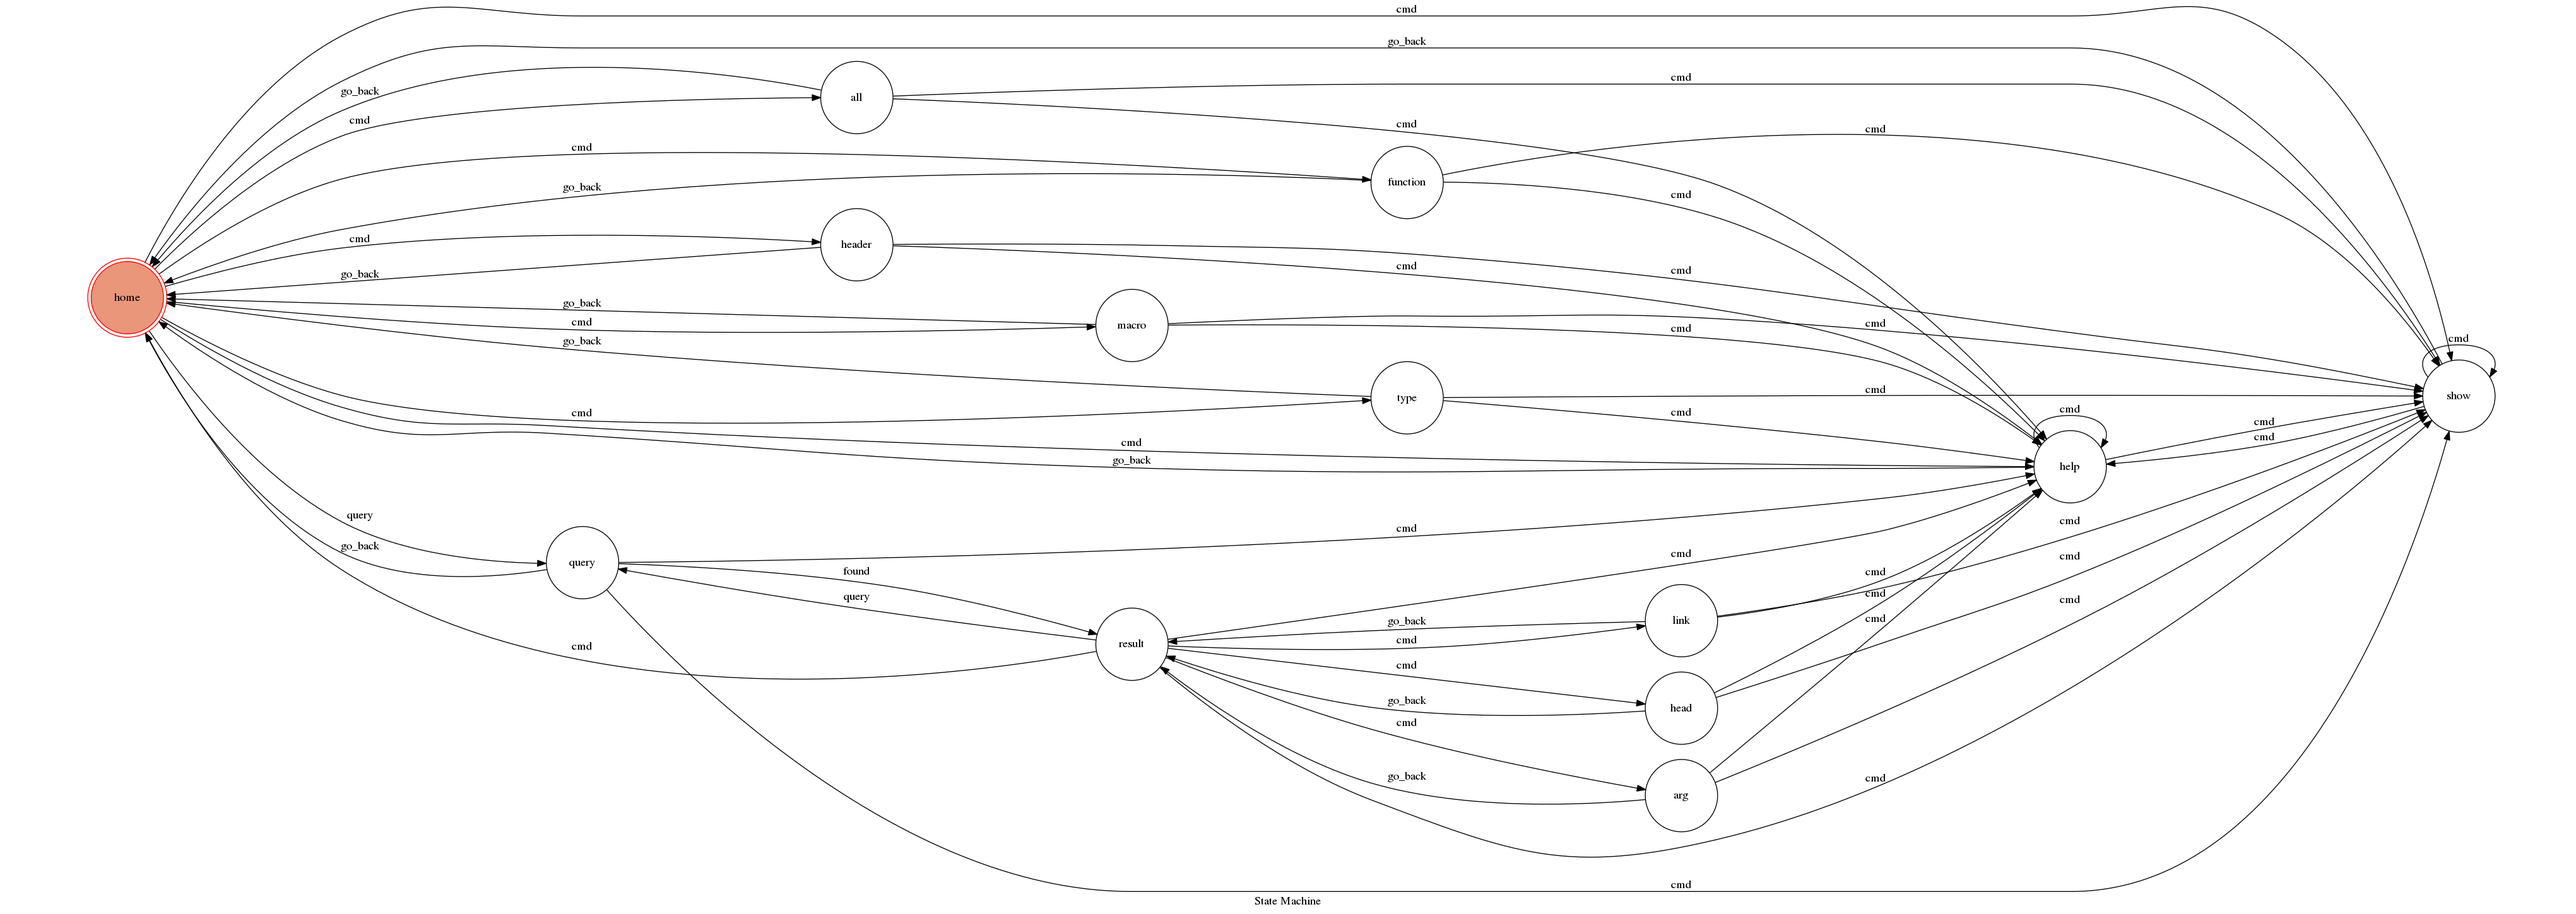
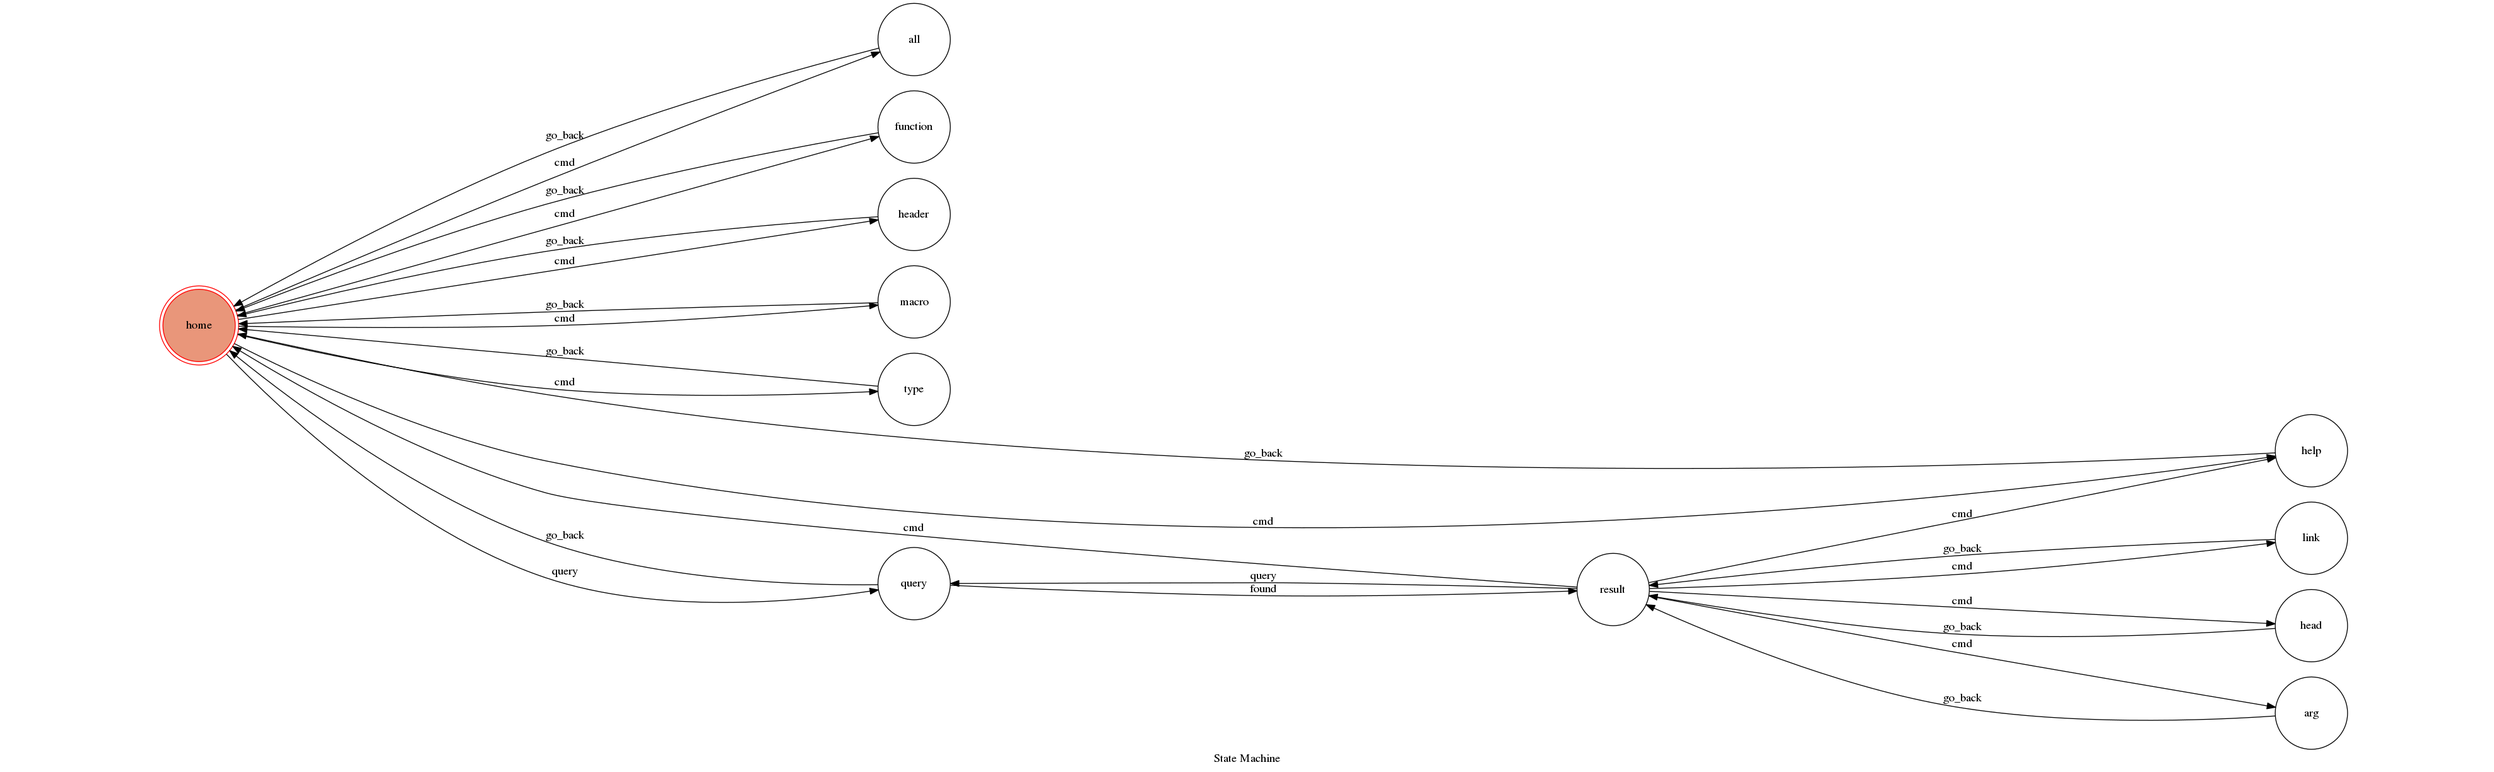
final update

diff --git a/fsm.py b/fsm.py
@@ -101,7 +101,7 @@ class TocMachine(object):
 		msg = update.message.text
 		logging.info('receive query: {}'.format(msg))
 
-		update.message.reply_text('a query? let me see...')
+		update.message.reply_text('A query? let me see...')
 
 		if self.mode == 'all':
 			result = collect.find_one({'name':msg})
@@ -110,40 +110,43 @@ class TocMachine(object):
 
 		self.lastResult = result
 
-		with io.StringIO() as replyBuffer:
-			if result is None:
-				if self.mode == 'all':
-					nameList = [item['name'] for item in collect.find({})]
-				else:
-					nameList = [item['name'] for item in collect.find({'itemType':self.mode})]
+		if result is None:
+			if self.mode == 'all':
+				nameList = [item['name'] for item in collect.find({})]
+			else:
+				nameList = [item['name'] for item in collect.find({'itemType':self.mode})]
 
-				possiblilties = [p for (p, score) in process.extract(msg, nameList) if score >= 70]
+			possiblilties = [p for (p, score) in process.extract(msg, nameList) if score >= 70]
+			with io.StringIO() as replyBuffer:
 				if len(possiblilties) == 0:
 					replyBuffer.write('No matched result')
 				else:
-					replyBuffer.write('No matched result, maybe you mean these?\n\n')
+					replyBuffer.write('No matched result, maybe you mean one of these?\n\n')
 					for p in possiblilties:
 						replyBuffer.write('> ' + p + '\n')
 				update.message.reply_text(replyBuffer.getvalue())
-				self.go_back(update)
-			else:
+			self.go_back(update)
+		else:
+			with io.StringIO() as replyBuffer:
 				replyBuffer.write('*' + result['itemType'] + '*\n')
 				if result['prototype'] == '':
 					replyBuffer.write('```' + result['name'] + '```\n')
 				else:
 					replyBuffer.write('```' + result['prototype'] + '```\n')
+				update.message.reply_text(replyBuffer.getvalue(), parse_mode='Markdown')
 
+			with io.StringIO() as replyBuffer:
 				replyBuffer.write(result['description'] + '\n\n')
 				replyBuffer.write(result['returnVal'] + '\n')
-				update.message.reply_text(replyBuffer.getvalue(), parse_mode='Markdown')
-				self.found()
+				update.message.reply_text(replyBuffer.getvalue())
+			self.found()
 
 	def on_enter_head(self, update):
-		update.message.reply_text('`%s` is defined in  %s'%(self.lastResult['name'], self.lastResult['header']) , parse_mode='Markdown')
+		update.message.reply_text('`%s` is defined in `%s`'%(self.lastResult['name'], self.lastResult['header']) , parse_mode='Markdown')
 		self.go_back(update)
 
 	def on_enter_link(self, update):
-		update.message.reply_text('`%s` is on page  \n%s'%(self.lastResult['name'], self.lastResult['link']) , parse_mode='Markdown')
+		update.message.reply_text('`%s` is on page\n%s'%(self.lastResult['name'], self.lastResult['link']) , parse_mode='Markdown')
 		self.go_back(update)
 
 	def on_enter_arg(self, update):
@@ -162,7 +165,9 @@ class TocMachine(object):
 			return
 
 		par = self.lastResult['params'][idx]
-		update.message.reply_text('*%s*\n%s\n'%(par['name'], par['description']), parse_mode='Markdown')
+		update.message.reply_text('*%s*\n'%(par['name']), parse_mode='Markdown')
+		update.message.reply_text('%s\n'%(par['description']))
+
 		self.go_back(update)
 
 
@@ -205,7 +210,7 @@ trans = [
 	},
 	{
 		'trigger':'cmd',
-		'source':'*',
+		'source':['home', 'result'],
 		'dest':'help',
 		'conditions':'cmd_help'
 	},

diff --git a/dbaccess.py b/dbaccess.py
@@ -1,3 +1,7 @@
+"""
+just access mongoDB for convinent, not used in app.py
+"""
+
 from pymongo import MongoClient
 from pprint import pprint
 
@@ -18,5 +22,20 @@ DBuri = ('mongodb://wwolfyTC:{0}@'
 cli = MongoClient(DBuri)
 collect = cli.CLibrary.library
 
-r = collect.find_one_and_delete({'name':'<climits> (limits.h)'})
-pprint(r)
+obj = {
+	'description': 'Null pointer',
+	'header': 'multiple header',
+	'itemType': 'macro',
+	'link': 'http://www.cplusplus.com/reference/cstdio/NULL/',
+	'name': 'NULL',
+	'params': [],
+	'prototype': '',
+	'returnVal': ''
+}
+"""
+collect.delete_many({'name':'NULL'})
+collect.insert_one(obj)
+"""
+rr = collect.find({'name':'NULL'})
+for r in rr:
+	pprint(r)
